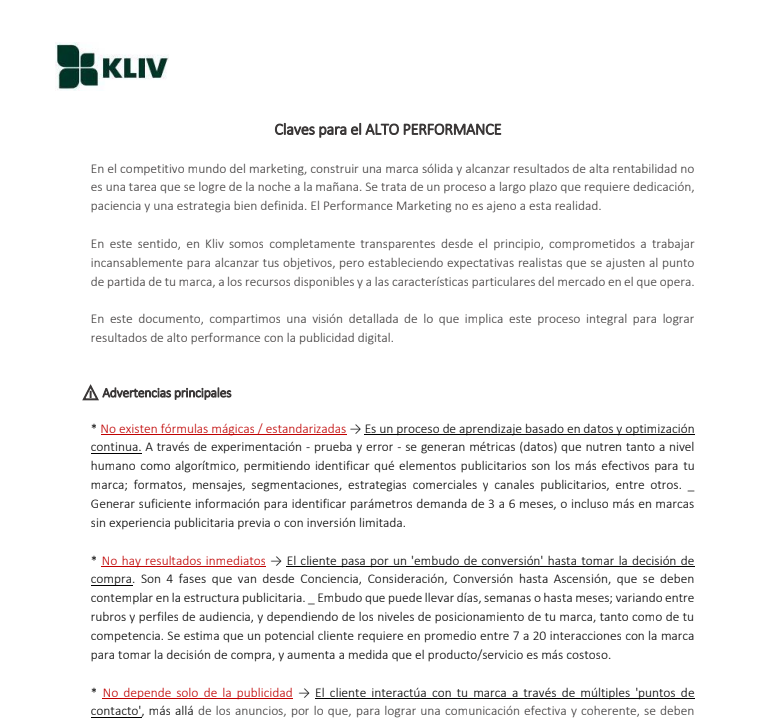
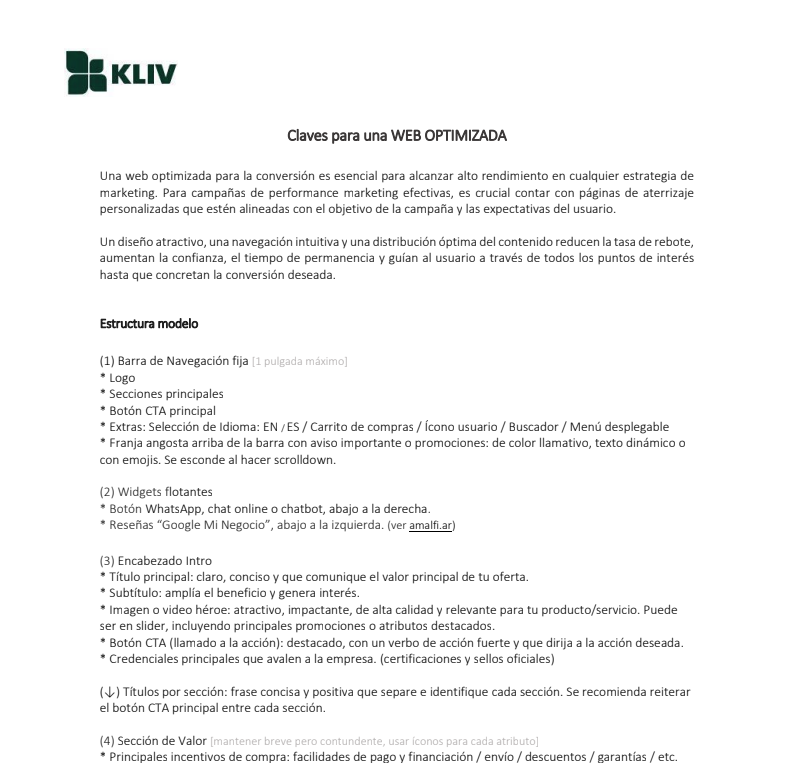
feat: Añadir lógica para manejar el estado del formulario y actualizar enlaces en la sección de agradecimiento

Changed region(s): [[0.0923, 0.1528, 0.8923, 1.0], [0.0615, 0.0611, 0.2154, 0.1222]]

diff --git a/app/[locale]/quiz/page.js b/app/[locale]/quiz/page.js
@@ -9,6 +9,7 @@ import { useEffect, useState } from "react";
 const Page = () => {
   const t = useTranslations("quiz");
 
+  const [formCompleted, setFormCompleted] = useState(false);
   const [showButton, setShowButton] = useState(false);
 
   // Dentro de un componente client o en un useEffect:
@@ -16,6 +17,8 @@ const Page = () => {
     const handler = (e) => {
       // Tally.FormSubmitted es la señal de envío
       if (e?.data?.includes("Tally.FormSubmitted")) {
+        setFormCompleted(true);
+
         const payload = JSON.parse(e.data).payload;
         console.log("Formulario enviado:", payload);
         // aquí tu lógica: cerrar modal, mostrar gracias, etc.
@@ -45,15 +48,14 @@ const Page = () => {
             {t("title")}
           </SectionTitle>
 
-          <div className="text-left flex flex-col gap-[10px] items-center w-full">
-            <SectionSubtitle>
-              <strong>{t("question")}</strong>
-            </SectionSubtitle>
-            <SectionSubtitle>{t("text")}</SectionSubtitle>
-            {/* <SectionSubtitle className={"italic mt-[-20px] mb-[-20px]"}>
-                {t_services("iaBoost")}
-              </SectionSubtitle> */}
-          </div>
+          {!formCompleted && (
+            <div className="text-left flex flex-col gap-[10px] items-center w-full">
+              <SectionSubtitle>
+                <strong>{t("question")}</strong>
+              </SectionSubtitle>
+              <SectionSubtitle>{t("text")}</SectionSubtitle>
+            </div>
+          )}
         </div>
         <TallyEmbed />
         {showButton && (

diff --git a/components/templates/ThankYouSection.js b/components/templates/ThankYouSection.js
@@ -69,10 +69,13 @@ const ThankYouSection = () => {
                   className="cajita-thank-you  w-full relative aspect-square cursor-pointer grid place-items-center rounded-[10px] overflow-hidden"
                   onClick={() => {
                     if (locale === "es") {
-                      window.open("https://bit.ly/ClavesPerformance", "_blank");
+                      window.open(
+                        "https://drive.google.com/file/d/1YeghuT5A8iS6qUAOAZjI18P81b9AZYYd/view?usp=drive_link",
+                        "_blank"
+                      );
                     } else {
                       window.open(
-                        "https://drive.google.com/file/d/1sQZ6FgQRx3u3m5cdPUTIW1ptWTWw-3yG/view",
+                        "https://drive.google.com/file/d/114kuK6bZbv5PrlyLDlVfQ6NcgcXy-81k/view?usp=drive_link ",
                         "_blank"
                       );
                     }

diff --git a/components/organisms/TallyEmbed.js b/components/organisms/TallyEmbed.js
@@ -15,7 +15,7 @@ export default function TallyEmbed() {
   }, []);
 
   return (
-    <div className="animate-fade-in-large w-full">
+    <div className="animate-fade-in-large w-full relative">
       {locale === "es" && (
         <iframe
           data-tally-src="https://tally.so/embed/31Y4ZQ?alignLeft=1&hideTitle=1&transparentBackground=1&dynamicHeight=1"
@@ -51,6 +51,8 @@ export default function TallyEmbed() {
           }
         }}
       />
+
+      <div className="absolute w-[60px] md:w-[200px] h-[60px] bg-white bottom-0 right-0"></div>
     </div>
   );
 }
